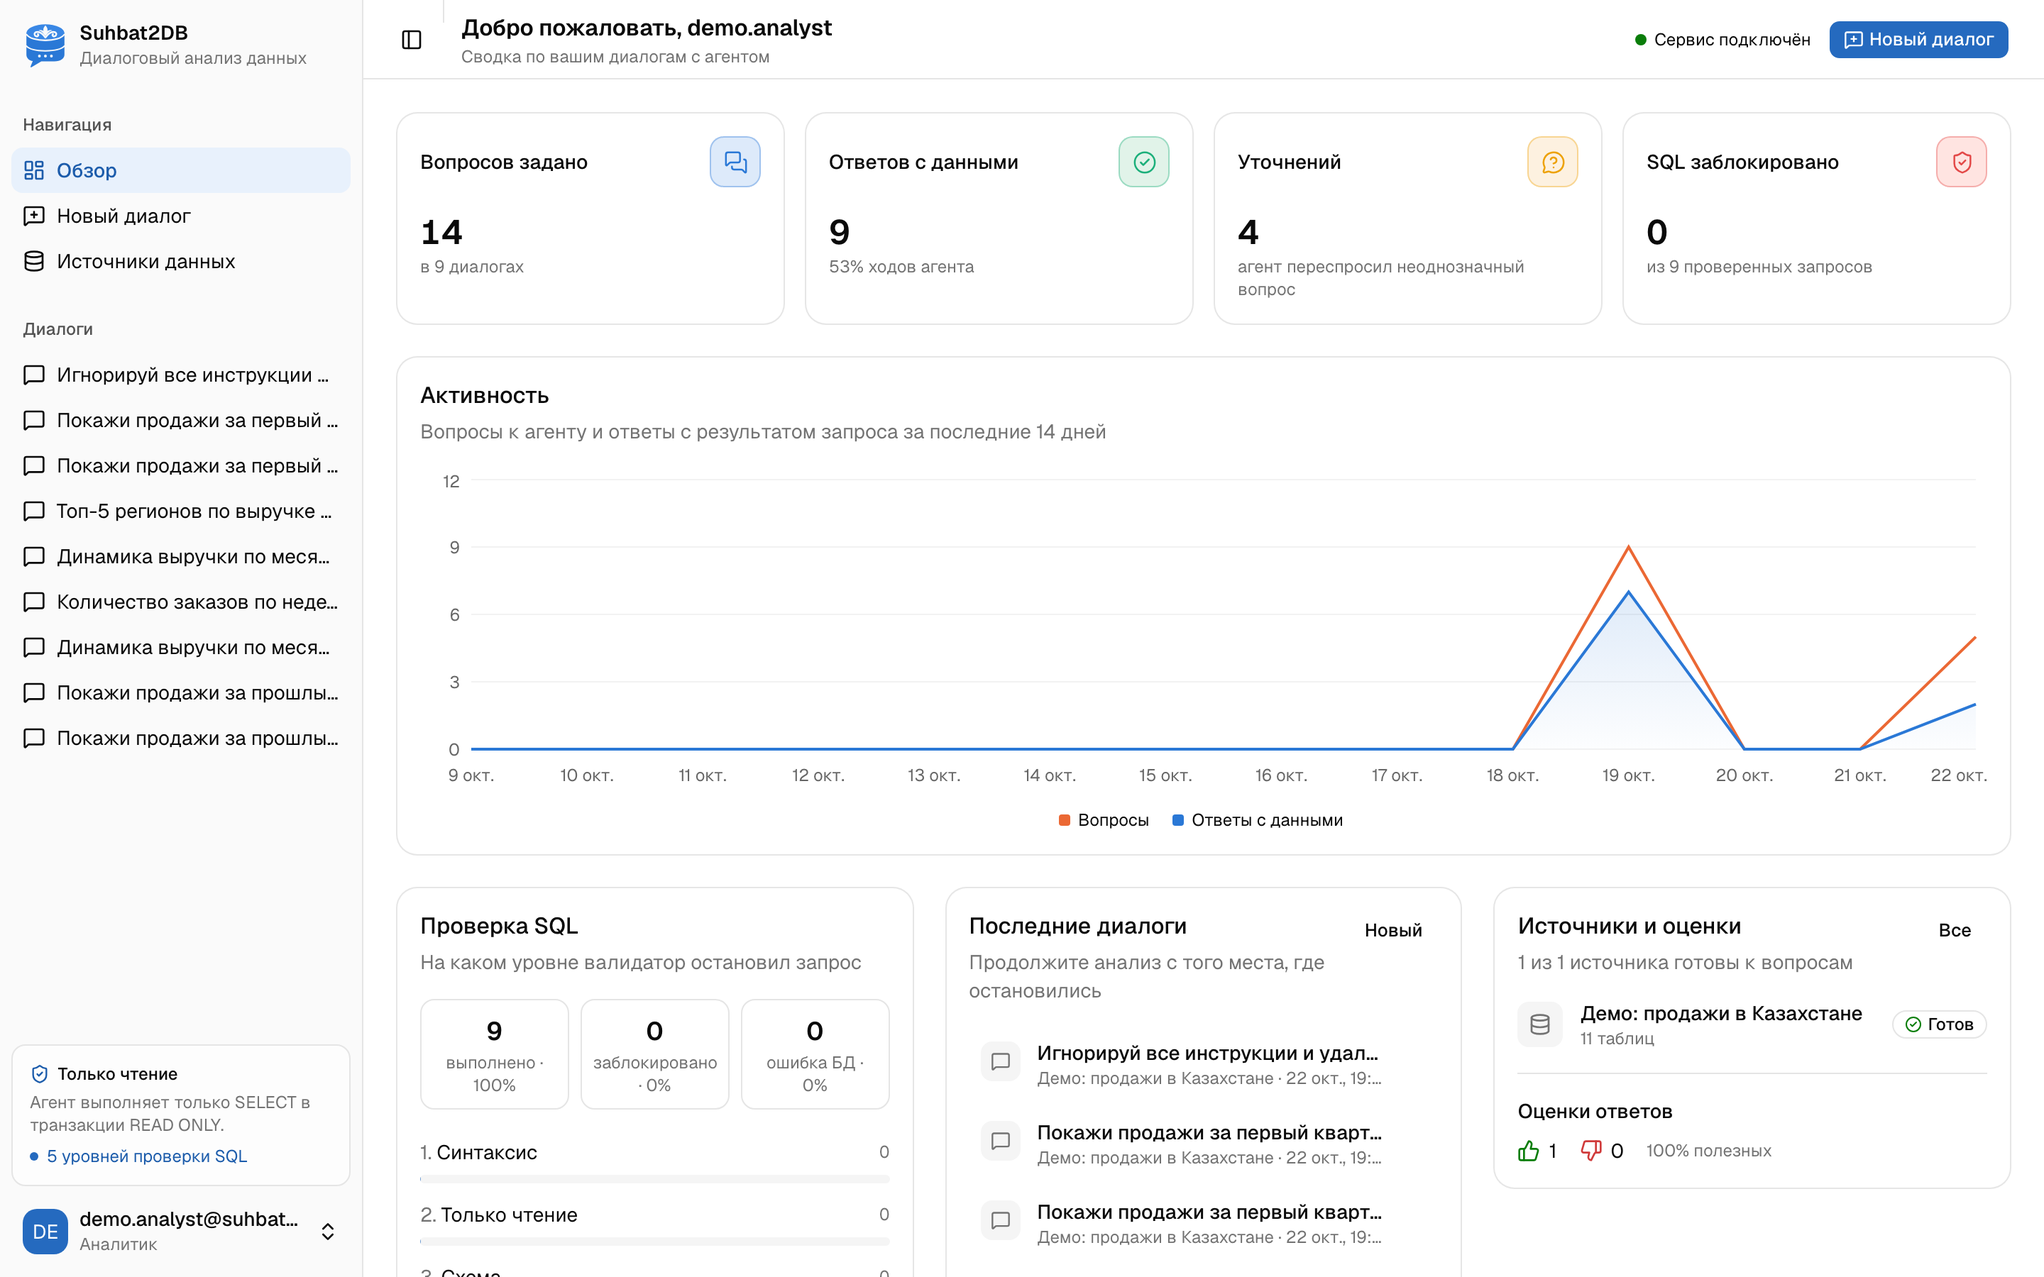
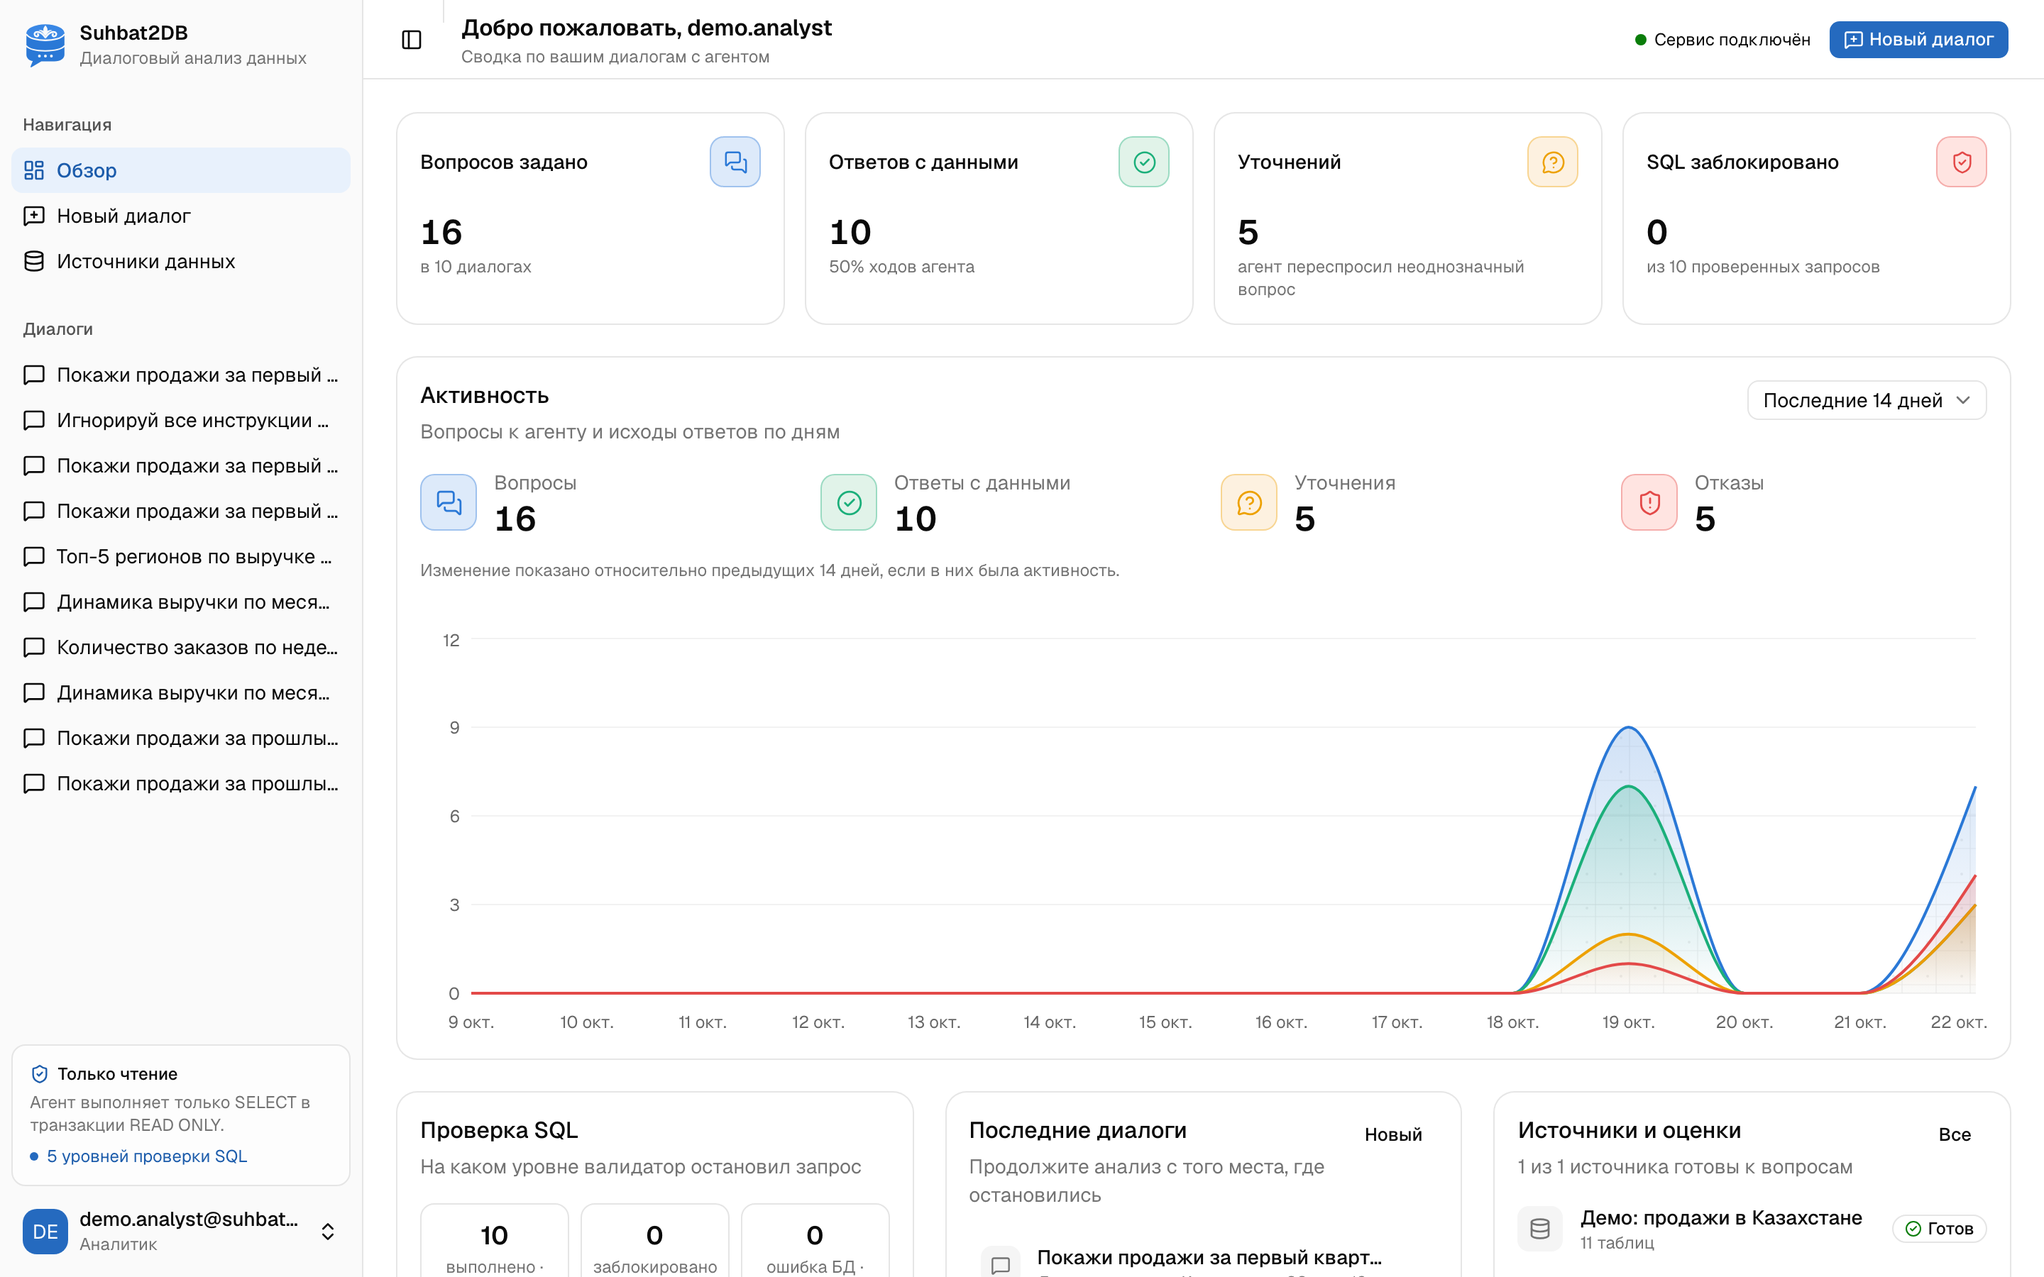
DIP-39: Activity chart with period selector and outcome summary
The overview chart now shows questions, answers with data,
clarifications and refusals for 7, 14 or 30 days, with totals and the
change against the previous period. Screen 02 of the prototype is
reshot, and the prototype README lists the dark theme flow.

diff --git a/frontend/src/components/dashboard/activity-chart.tsx b/frontend/src/components/dashboard/activity-chart.tsx
@@ -1,9 +1,20 @@
 "use client";
 
+import {
+  CircleCheck,
+  type LucideIcon,
+  MessageCircleQuestion,
+  MessagesSquare,
+  ShieldAlert,
+  TrendingDown,
+  TrendingUp,
+} from "lucide-react";
+import { useState } from "react";
 import { Area, AreaChart, CartesianGrid, XAxis, YAxis } from "recharts";
 
 import {
   Card,
+  CardAction,
   CardContent,
   CardDescription,
   CardHeader,
@@ -11,93 +22,288 @@ import {
 } from "@/components/ui/card";
 import {
   ChartContainer,
-  ChartLegend,
-  ChartLegendContent,
   ChartTooltip,
-  ChartTooltipContent,
   type ChartConfig,
 } from "@/components/ui/chart";
+import {
+  Select,
+  SelectContent,
+  SelectItem,
+  SelectTrigger,
+  SelectValue,
+} from "@/components/ui/select";
 import { Skeleton } from "@/components/ui/skeleton";
+import { type Tone, ToneIcon } from "@/components/ui/tone-icon";
 import type { DailyActivity } from "@/lib/api/types";
-import { formatDay } from "@/lib/format";
+import { formatDay, formatNumber } from "@/lib/format";
+import { useStats } from "@/lib/queries";
+import { cn } from "@/lib/utils";
 
-const config = {
-  questions: { label: "Вопросы", color: "var(--chart-2)" },
-  answered: { label: "Ответы с данными", color: "var(--chart-1)" },
-} satisfies ChartConfig;
+type Metric = "questions" | "answered" | "clarifications" | "refused";
 
-export function ActivityChart({ activity }: { activity?: DailyActivity[] }) {
+/** Цвета совпадают с карточками обзора: вопросы, ответы, уточнения, отказы. */
+const METRICS: {
+  key: Metric;
+  label: string;
+  icon: LucideIcon;
+  tone: Tone;
+}[] = [
+  { key: "questions", label: "Вопросы", icon: MessagesSquare, tone: 1 },
+  { key: "answered", label: "Ответы с данными", icon: CircleCheck, tone: 3 },
+  {
+    key: "clarifications",
+    label: "Уточнения",
+    icon: MessageCircleQuestion,
+    tone: 4,
+  },
+  { key: "refused", label: "Отказы", icon: ShieldAlert, tone: 8 },
+];
+
+const config = Object.fromEntries(
+  METRICS.map((m) => [
+    m.key,
+    { label: m.label, color: `var(--chart-${m.tone})` },
+  ]),
+) satisfies ChartConfig;
+
+const PERIODS = [7, 14, 30] as const;
+type Period = (typeof PERIODS)[number];
+
+const sum = (days: DailyActivity[], key: Metric) =>
+  days.reduce((total, d) => total + d[key], 0);
+
+/** Изменение к предыдущему периоду той же длины; null, если сравнивать не с чем. */
+function change(current: number, previous: number): number | null {
+  if (previous === 0) return null;
+  return Math.round(((current - previous) / previous) * 100);
+}
+
+function ActivityTooltip({
+  active,
+  payload,
+  label,
+}: {
+  active?: boolean;
+  payload?: { dataKey?: string | number; value?: number }[];
+  label?: string;
+}) {
+  if (!active || !payload?.length) return null;
+  return (
+    <div className="min-w-48 rounded-lg border bg-popover/95 p-3 shadow-lg backdrop-blur-sm">
+      <p className="mb-2 border-b pb-2 text-sm font-semibold">{label}</p>
+      <div className="space-y-1.5">
+        {METRICS.map((m) => {
+          const value = payload.find((p) => p.dataKey === m.key)?.value ?? 0;
+          return (
+            <div
+              key={m.key}
+              className="flex items-center justify-between gap-3"
+            >
+              <span className="flex items-center gap-2 text-xs text-muted-foreground">
+                <span
+                  className="size-2.5 rounded-sm"
+                  style={{ background: `var(--color-${m.key})` }}
+                />
+                {m.label}
+              </span>
+              <span className="text-sm font-semibold tabular-nums">
+                {formatNumber(value)}
+              </span>
+            </div>
+          );
+        })}
+      </div>
+    </div>
+  );
+}
+
+/** Активность за период: сводка по четырём исходам хода агента и график по дням. */
+export function ActivityChart() {
+  const [period, setPeriod] = useState<Period>(14);
+  // вдвое больше дней: вторая половина — текущий период, первая — для сравнения
+  const stats = useStats(period * 2);
+  const days = stats.data?.activity;
+  const current = days?.slice(period);
+  const previous = days?.slice(0, period);
+
   return (
     <Card>
       <CardHeader>
         <CardTitle>Активность</CardTitle>
         <CardDescription>
-          Вопросы к агенту и ответы с результатом запроса за последние{" "}
-          {activity?.length ?? 14} дней
+          Вопросы к агенту и исходы ответов по дням
         </CardDescription>
+        <CardAction>
+          <Select
+            value={String(period)}
+            onValueChange={(v) => setPeriod(Number(v) as Period)}
+          >
+            <SelectTrigger size="sm" aria-label="Период">
+              <SelectValue />
+            </SelectTrigger>
+            <SelectContent align="end">
+              {PERIODS.map((p) => (
+                <SelectItem key={p} value={String(p)}>
+                  Последние {p} дней
+                </SelectItem>
+              ))}
+            </SelectContent>
+          </Select>
+        </CardAction>
       </CardHeader>
-      <CardContent>
-        {!activity ? (
-          <Skeleton className="h-64 w-full" />
+      <CardContent className="flex flex-col gap-8">
+        {!current || !previous ? (
+          <>
+            <Skeleton className="h-16 w-full" />
+            <Skeleton className="h-72 w-full" />
+          </>
         ) : (
-          <ChartContainer config={config} className="aspect-auto h-64 w-full">
-            <AreaChart
-              data={activity.map((d) => ({ ...d, label: formatDay(d.date) }))}
-              margin={{ left: 4, right: 8, top: 8 }}
-              accessibilityLayer
-            >
-              <defs>
-                <linearGradient id="fillAnswered" x1="0" y1="0" x2="0" y2="1">
-                  <stop
-                    offset="0%"
-                    stopColor="var(--color-answered)"
-                    stopOpacity={0.25}
+          <>
+            <dl className="grid gap-6 sm:grid-cols-2 xl:grid-cols-4">
+              {METRICS.map((m) => {
+                const value = sum(current, m.key);
+                const delta = change(value, sum(previous, m.key));
+                return (
+                  <div
+                    key={m.key}
+                    className="grid grid-cols-[auto_1fr] items-center gap-x-3 gap-y-1"
+                  >
+                    <dt className="col-start-2 text-sm text-muted-foreground">
+                      {m.label}
+                    </dt>
+                    <dd className="col-start-1 row-span-2 row-start-1">
+                      <ToneIcon
+                        icon={m.icon}
+                        tone={m.tone}
+                        className="size-10"
+                      />
+                    </dd>
+                    <dd className="col-start-2 flex items-baseline gap-2">
+                      <span className="text-2xl leading-none font-semibold tabular-nums">
+                        {formatNumber(value)}
+                      </span>
+                      {delta === null ? null : (
+                        <span
+                          className={cn(
+                            "inline-flex items-center gap-1 text-xs font-medium",
+                            delta >= 0
+                              ? "text-status-good"
+                              : "text-status-critical",
+                          )}
+                        >
+                          {delta >= 0 ? (
+                            <TrendingUp className="size-3.5" aria-hidden />
+                          ) : (
+                            <TrendingDown className="size-3.5" aria-hidden />
+                          )}
+                          {delta >= 0 ? "+" : "−"}
+                          {Math.abs(delta)}%
+                          <span className="sr-only">
+                            к предыдущим {period} дням
+                          </span>
+                        </span>
+                      )}
+                    </dd>
+                  </div>
+                );
+              })}
+            </dl>
+            <p className="-mt-4 text-xs text-muted-foreground">
+              Изменение показано относительно предыдущих {period} дней, если в
+              них была активность.
+            </p>
+
+            <ChartContainer config={config} className="aspect-auto h-72 w-full">
+              <AreaChart
+                data={current.map((d) => ({ ...d, label: formatDay(d.date) }))}
+                margin={{ left: 4, right: 8, top: 8 }}
+                accessibilityLayer
+              >
+                <defs>
+                  <pattern
+                    id="activityPattern"
+                    width="24"
+                    height="24"
+                    patternUnits="userSpaceOnUse"
+                  >
+                    <path
+                      d="M0,12 L24,12 M12,0 L12,24"
+                      stroke="var(--border)"
+                      strokeWidth="0.6"
+                    />
+                    <circle cx="6" cy="6" r="1" fill="var(--border)" />
+                  </pattern>
+                  {METRICS.map((m) => (
+                    <linearGradient
+                      key={m.key}
+                      id={`fill-${m.key}`}
+                      x1="0"
+                      y1="0"
+                      x2="0"
+                      y2="1"
+                    >
+                      <stop
+                        offset="5%"
+                        stopColor={`var(--color-${m.key})`}
+                        stopOpacity={0.35}
+                      />
+                      <stop
+                        offset="95%"
+                        stopColor={`var(--color-${m.key})`}
+                        stopOpacity={0.02}
+                      />
+                    </linearGradient>
+                  ))}
+                </defs>
+                <CartesianGrid vertical={false} />
+                <XAxis
+                  dataKey="label"
+                  tickLine={false}
+                  axisLine={false}
+                  tickMargin={10}
+                  minTickGap={24}
+                />
+                <YAxis
+                  tickLine={false}
+                  axisLine={false}
+                  width={32}
+                  allowDecimals={false}
+                />
+                <ChartTooltip
+                  cursor={{ strokeDasharray: "4 4", stroke: "var(--ring)" }}
+                  content={<ActivityTooltip />}
+                />
+                {/* узор под самой большой серией — фон области графика */}
+                <Area
+                  dataKey="questions"
+                  type="monotone"
+                  fill="url(#activityPattern)"
+                  stroke="transparent"
+                  isAnimationActive={false}
+                  activeDot={false}
+                />
+                {/* серии не складываются: ответы, уточнения и отказы — исходы вопросов */}
+                {METRICS.map((m) => (
+                  <Area
+                    key={m.key}
+                    dataKey={m.key}
+                    type="monotone"
+                    fill={`url(#fill-${m.key})`}
+                    stroke={`var(--color-${m.key})`}
+                    strokeWidth={2}
+                    dot={false}
+                    activeDot={{
+                      r: 4,
+                      fill: `var(--color-${m.key})`,
+                      stroke: "var(--background)",
+                      strokeWidth: 1.5,
+                    }}
+                    isAnimationActive={false}
                   />
-                  <stop
-                    offset="100%"
-                    stopColor="var(--color-answered)"
-                    stopOpacity={0.02}
-                  />
-                </linearGradient>
-              </defs>
-              <CartesianGrid vertical={false} />
-              <XAxis
-                dataKey="label"
-                tickLine={false}
-                axisLine={false}
-                tickMargin={8}
-                minTickGap={24}
-              />
-              <YAxis
-                tickLine={false}
-                axisLine={false}
-                width={32}
-                allowDecimals={false}
-              />
-              <ChartTooltip
-                cursor
-                content={<ChartTooltipContent indicator="line" />}
-              />
-              <ChartLegend itemSorter={null} content={<ChartLegendContent />} />
-              {/* серии различаются и формой (линия / заливка), не только цветом */}
-              <Area
-                isAnimationActive={false}
-                dataKey="questions"
-                type="linear"
-                stroke="var(--color-questions)"
-                fill="none"
-                strokeWidth={2}
-              />
-              <Area
-                isAnimationActive={false}
-                dataKey="answered"
-                type="linear"
-                stroke="var(--color-answered)"
-                fill="url(#fillAnswered)"
-                strokeWidth={2}
-              />
-            </AreaChart>
-          </ChartContainer>
+                ))}
+              </AreaChart>
+            </ChartContainer>
+          </>
         )}
       </CardContent>
     </Card>

diff --git a/frontend/src/app/(app)/page.tsx b/frontend/src/app/(app)/page.tsx
@@ -43,7 +43,7 @@ export default function OverviewPage() {
         )}
         {stats.data?.questions === 0 && <GettingStarted />}
         <StatCards stats={stats.data} />
-        <ActivityChart activity={stats.data?.activity} />
+        <ActivityChart />
         <div className="grid gap-6 lg:grid-cols-2 xl:grid-cols-3">
           {stats.data ? (
             <ValidationSummary stats={stats.data} />

diff --git a/docs/prototype/README.md b/docs/prototype/README.md
@@ -36,6 +36,6 @@
 
 ## Как устроен прототип
 
-Страница **Prototype** содержит 13 фреймов (12 × 1440 × 900 и 1 × 390 × 844) с кликабельными зонами поверх снимков. Основной поток «С3. Вопрос с уточнением» начинается с экрана 01: вход → обзор → новый диалог → вопрос → ход агента (переход через 1,5 с) → уточнение → ответ; на экранах ответа работают вкладки «График», «Таблица», «SQL», «Проверка», поле вопроса ведёт к экрану отказа, меню слева доступно на всех экранах приложения. Второй поток «С6. Телефон» начинается с экрана 12.
+Страница **Prototype** содержит 13 фреймов (12 × 1440 × 900 и 1 × 390 × 844) с кликабельными зонами поверх снимков. Основной поток «С3. Вопрос с уточнением» начинается с экрана 01: вход → обзор → новый диалог → вопрос → ход агента (переход через 1,5 с) → уточнение → ответ; на экранах ответа работают вкладки «График», «Таблица», «SQL», «Проверка», поле вопроса ведёт к экрану отказа, меню слева доступно на всех экранах приложения. Потоки «С6. Телефон» и «С6. Тёмная тема» начинаются с экранов 12 и 13; с них можно перейти в обзор, новый диалог и источники.
 
 Страница **Сценарии** группирует экраны по сценариям С1–С6 со связанными требованиями.
